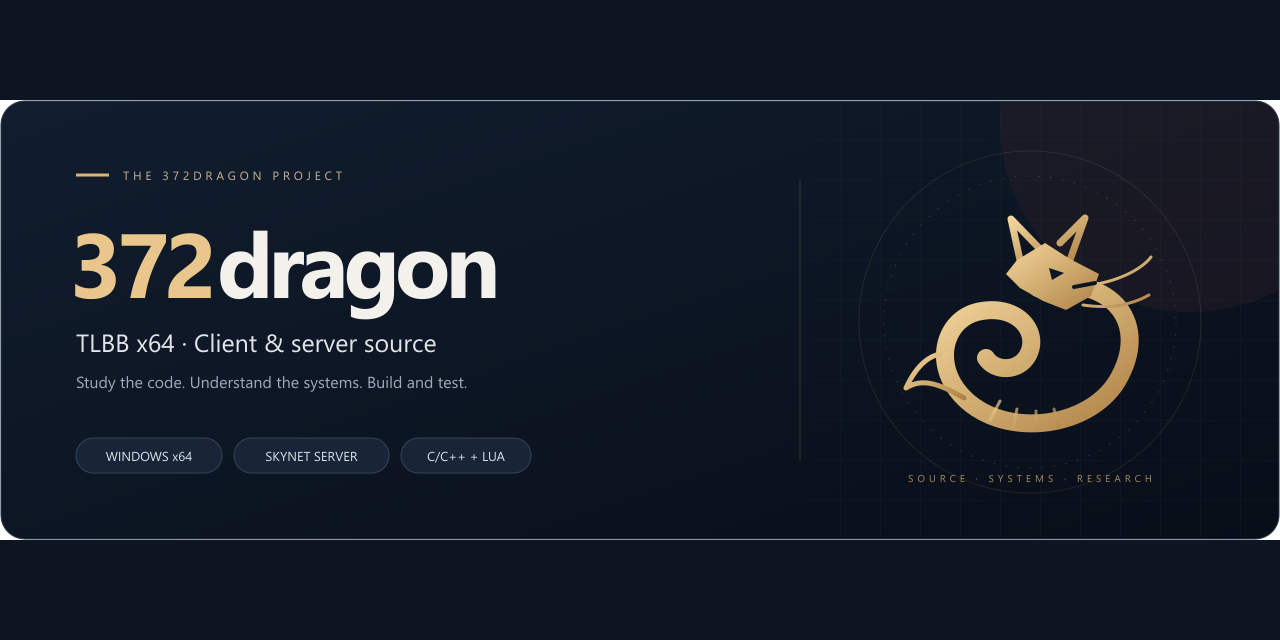
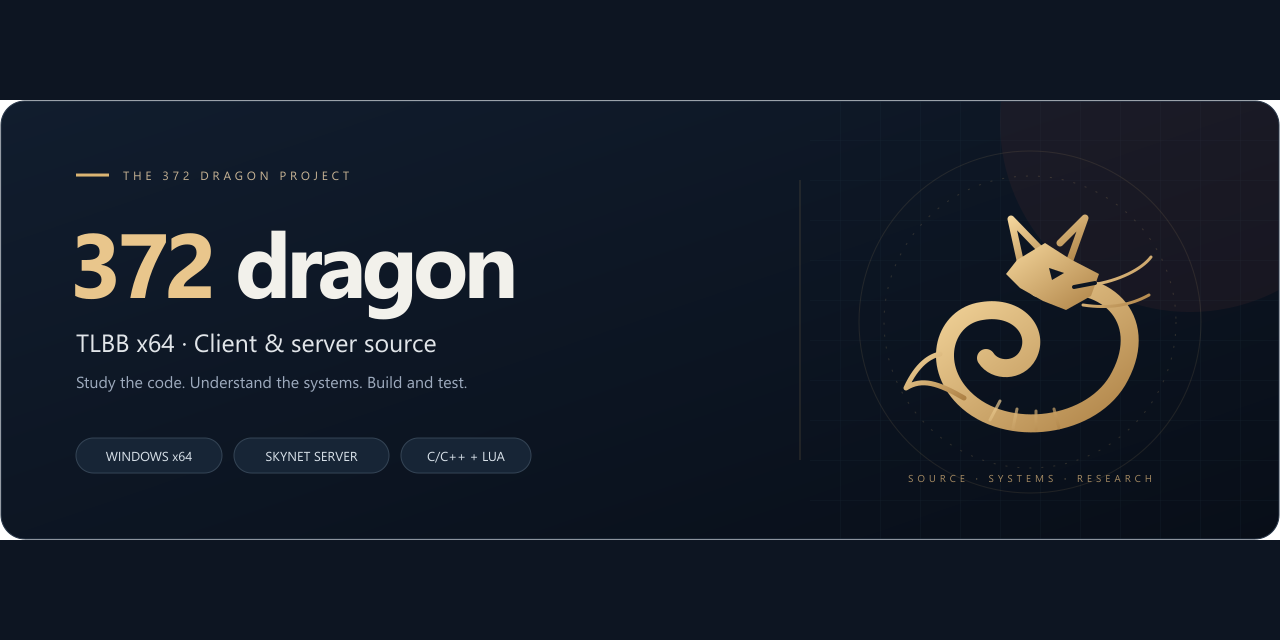
Use 372 dragon branding in public documentation

Changed region(s): [[0.1562, 0.3438, 0.4062, 0.5], [0.1562, 0.25, 0.2812, 0.2812]]

diff --git a/README.md b/README.md
@@ -1,8 +1,8 @@
 <p align="center">
-  <img src="Docs/assets/372dragon-banner.svg" alt="372dragon — TLBB x64 client, server and development tools" width="100%">
+  <img src="Docs/assets/372dragon-banner.svg" alt="372 dragon — TLBB x64 client, server and development tools" width="100%">
 </p>
 
-<h1 align="center">372dragon</h1>
+<h1 align="center">372 dragon</h1>
 
 <p align="center">
   <strong>Mã nguồn client TLBB x64, server Skynet/Lua và công cụ phát triển.</strong><br>
@@ -20,7 +20,7 @@
 
 ---
 
-**372dragon** là tên công bố của **CY-Source**: dự án phát triển client Windows x64
+**372 dragon** là dự án phát triển client Windows x64
 từ nền mã TLBB 0.85, dùng Fairy/OGRE, Direct3D 9, CEGUI và Lua, kết nối với server
 Skynet/Lua trên Linux hoặc WSL2. Repository tập hợp source client/server, công cụ,
 kiểm thử và tài liệu kỹ thuật để nghiên cứu, tiếp tục phát triển và kiểm tra hành vi.
@@ -33,7 +33,7 @@ kiểm thử và tài liệu kỹ thuật để nghiên cứu, tiếp tục phá
 
 | Bạn muốn làm gì? | Đọc ở đâu? |
 |---|---|
-| Hiểu dự án và lấy đúng các thành phần | [Bắt đầu với 372dragon](Docs/guide/getting-started.md) |
+| Hiểu dự án và lấy đúng các thành phần | [Bắt đầu với 372 dragon](Docs/guide/getting-started.md) |
 | Tải data, kiểm hash và giải nén | [Data kiểm thử trên Google Drive](DATA_DOWNLOAD.md) |
 | Dựng client Windows x64 | [Toolchain, SDK và lệnh build](Docs/guide/build-client.md) |
 | Chuẩn bị server Linux/WSL2 | [Source, cấu hình riêng và dịch vụ](Docs/guide/server-setup.md) |
@@ -50,10 +50,6 @@ kiểm thử và tài liệu kỹ thuật để nghiên cứu, tiếp tục phá
 | **Công cụ** | Build, xử lý tài nguyên, giao thức, staging và kiểm tra |
 | **Tư liệu kỹ thuật** | Registry, đặc tả, ghi chép kiểm toán và bằng chứng theo mốc phát triển |
 | **Data kiểm thử** | Tài nguyên client, overlay và bảng/scene server; tải riêng để giữ repository nhẹ |
-
-Các tên `CY-Source`, `CYSource`, `CYS_*`, `cys_*` và `CanonicalCY` trong code vẫn là
-định danh kỹ thuật hoặc lịch sử của cùng dự án. Tên công bố **372dragon** không yêu
-cầu đổi các target build, đường dẫn data hay tên file tài nguyên.
 
 ## Tải source và data
 
@@ -88,8 +84,8 @@ cd C:\Dev\372dragon
 ├── Tests/            Kiểm thử, validator và probe
 ├── Registry/         ID, giao thức, ABI và dấu vết nhập nguồn
 ├── Docs/guide/       Hướng dẫn dành cho người dùng repository
-├── Docs/assets/      Banner và nhận diện 372dragon
-├── Docs/             Tài liệu kỹ thuật và lịch sử CY-Source
+├── Docs/assets/      Banner và nhận diện 372 dragon
+├── Docs/             Tài liệu kỹ thuật và lịch sử phát triển
 ├── Publication/      Manifest, kiểm tra data và chuẩn bị cấu hình
 ├── LICENSES/         Văn bản giấy phép gốc
 └── .github/          Mẫu issue và pull request
@@ -137,7 +133,7 @@ bước tái hiện, hành vi mong đợi cùng log đã loại thông tin riên
 <details>
 <summary><strong>English overview</strong></summary>
 
-372dragon is the public project name for CY-Source, a TLBB 0.85-derived Windows x64
+372 dragon is a TLBB 0.85-derived Windows x64
 client with a separate Skynet/Lua server. The client uses Fairy/OGRE, Direct3D 9,
 CEGUI and Lua. This repository contains a source snapshot, development tools,
 tests and technical documentation. Test resources are distributed separately.
@@ -145,7 +141,6 @@ tests and technical documentation. Test resources are distributed separately.
 A complete clean-machine build and installation has not yet been validated.
 Original project contributions use PolyForm Noncommercial 1.0.0 only within the
 documented scope; inherited code, third-party libraries and test data retain their
-respective rights and terms. Technical identifiers and historical documents still
-use CY-Source/CYS names. The main documentation is currently in Vietnamese.
+respective rights and terms. The main documentation is currently in Vietnamese.
 
 </details>

diff --git a/DATA_DOWNLOAD.md b/DATA_DOWNLOAD.md
@@ -1,9 +1,10 @@
-# 372dragon — tải data kiểm thử
+# 372 dragon — tải data kiểm thử
 
 [← Trang dự án](README.md) · [Hướng dẫn bắt đầu](Docs/guide/getting-started.md)
 
-372dragon là tên công bố của CY-Source. Tên ZIP và thông báo `DATA-NOTICE.txt` giữ
-nguyên để khớp gói đã chia sẻ; đổi tên dự án không thay nội dung hay checksum data.
+Tên ZIP và thông báo `DATA-NOTICE.txt` giữ nguyên để khớp gói đã chia sẻ.
+Bản thông báo trong repository dùng tên hiển thị **372 dragon**; nội dung điều khoản,
+file data và checksum gói tải về không thay đổi.
 
 **Google Drive:** [Tải cy-test-data-2026-10-15.zip](https://drive.google.com/file/d/1FG-BSvarnmCeezwr4PqqC0zHMf7syia4/view?usp=sharing).
 Liên kết do chủ dự án cung cấp. Đã mở trang file không đăng nhập và xác nhận đúng
@@ -27,11 +28,11 @@ Trong ZIP có `DATA-FILES.json` chứa hash từng file và `DATA-NOTICE.txt`.
 ## Mục đích kiểm thử và giới hạn trách nhiệm
 
 Bộ data chỉ được dự án giới thiệu để đối chiếu và kiểm tra mã nguồn gốc, bản build
-từ source và các thay đổi của CY-Source có hoạt động đúng hay không; phục vụ tái hiện
+từ source và các thay đổi của 372 dragon có hoạt động đúng hay không; phục vụ tái hiện
 lỗi, kiểm tra việc tải tài nguyên và khả năng tương thích client/server.
 
-Đọc [DATA_NOTICE.md](DATA_NOTICE.md) trước khi sử dụng. Thông báo này được đính kèm
-nguyên văn trong `DATA-NOTICE.txt` bên trong ZIP: dữ liệu được cung cấp theo hiện trạng;
+Đọc [DATA_NOTICE.md](DATA_NOTICE.md) trước khi sử dụng. `DATA-NOTICE.txt` bên trong ZIP
+giữ bản thông báo tại thời điểm đóng gói, với cùng điều khoản: dữ liệu được cung cấp theo hiện trạng;
 miễn trừ bảo đảm, bao gồm bảo đảm không xâm phạm quyền bên thứ ba, và giới hạn trách
 nhiệm trong phạm vi pháp luật cho phép. Người sử dụng phải xác định quyền và tuân thủ
 điều khoản áp dụng đối với hành vi của mình. Mục đích kiểm thử và thông báo miễn trừ
@@ -40,7 +41,7 @@ không tự tạo quyền phân phối hoặc loại bỏ trách nhiệm pháp l
 ## Thông báo bản quyền
 
 > Dữ liệu kiểm thử được tổng hợp từ nhiều nguồn trên internet. Bản quyền và các quyền
-> liên quan thuộc tác giả hoặc chủ sở hữu tương ứng. CY-Source không tuyên bố sở hữu
+> liên quan thuộc tác giả hoặc chủ sở hữu tương ứng. 372 dragon không tuyên bố sở hữu
 > và không cấp lại giấy phép cho dữ liệu này. Giấy phép phần mềm của dự án không áp dụng
 > cho gói dữ liệu. Việc sử dụng và phân phối lại phải tuân thủ điều khoản của nguồn và
 > chủ sở hữu tương ứng.

diff --git a/DATA_NOTICE.md b/DATA_NOTICE.md
@@ -2,7 +2,7 @@
 
 ## 1. Mục đích của bộ dữ liệu
 
-CY-Source tập hợp và dẫn bộ dữ liệu này chỉ nhằm phục vụ nghiên cứu, đối chiếu và
+372 dragon tập hợp và dẫn bộ dữ liệu này chỉ nhằm phục vụ nghiên cứu, đối chiếu và
 kiểm thử kỹ thuật: kiểm tra mã nguồn gốc, bản build từ source và các thay đổi của
 dự án có đọc, tải, xử lý tài nguyên và thực hiện chức năng đúng hay không; tái hiện
 lỗi và đánh giá khả năng tương thích giữa client, server và định dạng dữ liệu.
@@ -16,9 +16,9 @@ sao chép, sử dụng, sửa đổi, phân phối hoặc vận hành dữ liệ
 ## 2. Quyền tác giả và phạm vi giấy phép
 
 Dữ liệu được tổng hợp từ nhiều nguồn. Quyền tác giả, quyền liên quan, nhãn hiệu và
-các quyền sở hữu trí tuệ khác thuộc tác giả hoặc chủ sở hữu tương ứng. CY-Source
+các quyền sở hữu trí tuệ khác thuộc tác giả hoặc chủ sở hữu tương ứng. 372 dragon
 không tuyên bố sở hữu, không chuyển nhượng và không cấp lại giấy phép cho dữ liệu.
-Giấy phép phần mềm của CY-Source không áp dụng cho bộ dữ liệu này. Việc một tài nguyên
+Giấy phép phần mềm của 372 dragon không áp dụng cho bộ dữ liệu này. Việc một tài nguyên
 xuất hiện trong bộ dữ liệu không hàm ý tác giả hoặc chủ sở hữu bảo trợ hay chấp thuận
 toàn bộ dự án.
 
@@ -33,7 +33,7 @@ sửa đổi, phân phối lại hoặc khai thác dữ liệu đều hợp phá
 ## 4. Giới hạn trách nhiệm và nghĩa vụ của người sử dụng
 
 Trong phạm vi pháp luật áp dụng cho phép, tác giả đóng góp, người duy trì và bên
-cung cấp của CY-Source không chịu trách nhiệm đối với thiệt hại, tổn thất hoặc yêu
+cung cấp của 372 dragon không chịu trách nhiệm đối với thiệt hại, tổn thất hoặc yêu
 cầu bồi thường phát sinh từ việc sử dụng, không thể sử dụng, sửa đổi, phân phối lại
 hoặc khai thác bộ dữ liệu, bao gồm các tranh chấp về quyền tác giả, quyền sở hữu trí
 tuệ và các rủi ro pháp lý liên quan đến hành vi sử dụng của người nhận.

diff --git a/PUBLICATION.md b/PUBLICATION.md
@@ -1,6 +1,6 @@
-# Phương án công bố 372dragon — 15/10/2026
+# Phương án công bố 372 dragon — 15/10/2026
 
-Tên công bố của CY-Source là **372dragon**. Xem [README.md](README.md),
+**372 dragon**: source client/server và tài liệu dự án. Xem [README.md](README.md),
 [hướng dẫn](Docs/guide/README.md) và [thiết lập GitHub](Publication/GITHUB-SETUP.md).
 
 Quyết định mới nhất: GitHub cho source và tài liệu; một file data ZIP64 riêng ở Google Drive;
@@ -43,7 +43,7 @@ không xóa bản gốc. Nếu muốn chia sẻ thêm, từng nhóm cần kiểm
 
 Đã làm: kiểm kê client/server thật; xuất source riêng; thay mật khẩu cấu hình bằng template;
 chuẩn bị license scope, bảng nguồn data và tài liệu DLL; ghi nhận liên kết Drive do chủ dự án cung cấp và kiểm tra trang file không đăng nhập.
-Source snapshot được công bố tại [372dragon trên GitHub](https://github.com/ts4m97/372dragon), nhánh `main`.
+Source snapshot được công bố tại [372 dragon trên GitHub](https://github.com/ts4m97/372dragon), nhánh `main`.
 
 Chưa làm: xác minh quyền phân phối lại của từng nguồn data; hoàn tất phạm vi
 đóng góp CY lịch sử; bổ sung mọi notice phụ thuộc; nghiệm thu cài mới và clean build trên máy khác.

diff --git a/CHANGELOG.md b/CHANGELOG.md
@@ -1,11 +1,11 @@
-# Thay đổi bản công bố 372dragon
+# Thay đổi bản công bố 372 dragon
 
 Nhật ký này không tự đại diện cho release/tag đã tạo trên GitHub hay chứng nhận clean build.
 
 ## 2026-10-15 — Công bố source snapshot
 
 - Công bố source tại [ts4m97/372dragon](https://github.com/ts4m97/372dragon), nhánh `main`.
-- Chọn tên công bố **372dragon**, giữ CY-Source/CYS trong code và lịch sử.
+- Thống nhất tên hiển thị **372 dragon** trong README, banner và tài liệu giới thiệu.
 - Xuất riêng source client/server, công cụ, kiểm thử và tài liệu.
 - Chuẩn bị cấu hình mẫu, phạm vi license và notice bên thứ ba.
 - Tách data thành ZIP64 ngoài Git, thêm checksum và thông báo data.

diff --git a/Publication/INSTALL-NOTES.md b/Publication/INSTALL-NOTES.md
@@ -1,8 +1,8 @@
 # Cài mới: những gì bộ chuẩn bị cung cấp
 
-**372dragon:** bắt đầu từ [hướng dẫn cài đặt](../Docs/guide/getting-started.md),
+**372 dragon:** bắt đầu từ [hướng dẫn cài đặt](../Docs/guide/getting-started.md),
 [build client](../Docs/guide/build-client.md) và [server](../Docs/guide/server-setup.md).
-File này giữ các ghi chú kỹ thuật của bản xuất CY-Source.
+File này giữ các ghi chú kỹ thuật của bản xuất source.
 
 Đây là hướng dẫn về bố cục và các bước cần nghiệm thu, chưa phải tuyên bố cài đặt tự động đã đạt.
 

diff --git a/Docs/guide/repository-map.md b/Docs/guide/repository-map.md
@@ -24,7 +24,7 @@
 1. **Hướng dẫn bản công bố:** [Docs/guide](README.md), README, DATA_DOWNLOAD,
    CONTRIBUTING và các file root giải thích cách tiếp cận repository.
 2. **Tư liệu lịch sử:** tài liệu đánh số trong `Docs/`, spec và evidence giữ ngày
-   tháng, giả định và đường dẫn của CY-Source lúc viết.
+   tháng, giả định và đường dẫn của dự án lúc viết.
 3. **Metadata đóng gói:** manifest data, phạm vi license và nguồn data ở `Publication/`.
    Chúng không thay source SDK hay chứng nhận runtime.
 

diff --git a/Docs/guide/README.md b/Docs/guide/README.md
@@ -1,9 +1,9 @@
-# Tài liệu 372dragon
+# Tài liệu 372 dragon
 
 [← Trang dự án](../../README.md)
 
-Đây là bộ hướng dẫn dành cho bản công bố 372dragon. Các tài liệu khác trong `Docs/`
-ghi quá trình phát triển CY-Source; đọc ngày tháng và phạm vi trước khi áp dụng.
+Đây là bộ hướng dẫn dành cho bản công bố 372 dragon. Các tài liệu khác trong `Docs/`
+ghi quá trình phát triển dự án; đọc ngày tháng và phạm vi trước khi áp dụng.
 
 | Thứ tự | Hướng dẫn | Kết quả cần có |
 |---:|---|---|

diff --git a/Docs/guide/getting-started.md b/Docs/guide/getting-started.md
@@ -1,8 +1,8 @@
-# Bắt đầu với 372dragon
+# Bắt đầu với 372 dragon
 
 [← Tài liệu](README.md) · [Build client →](build-client.md)
 
-372dragon cung cấp source để nghiên cứu và phát triển client TLBB x64 cùng server
+372 dragon cung cấp source để nghiên cứu và phát triển client TLBB x64 cùng server
 Skynet/Lua. Quy trình cài trọn bộ trên máy mới chưa được nghiệm thu. Bạn có thể đọc
 code ngay mà không tải 12,39 GB data.
 

diff --git a/README_vi.md b/README_vi.md
@@ -1,4 +1,4 @@
-# CY-Source — Thiên Long Bát Bộ 64-bit dựng từ mã nguồn
+# 372 dragon — Thiên Long Bát Bộ 64-bit dựng từ mã nguồn
 
 Dự án dựng một client TLBB x64 từ mã nguồn 0.85 (trong `Reference`), nâng lên ngang dòng engine Fairy hiện đại của `client_GL` và CY 3.71, rồi dùng một kho dữ liệu hợp nhất từ CY, HJ, GL và 085. Client nói giao thức của server skynet đang chạy trong WSL `TLBB`.
 

diff --git a/LICENSING.md b/LICENSING.md
@@ -1,6 +1,6 @@
-# Giấy phép 372dragon — phạm vi đóng góp của dự án
+# Giấy phép 372 dragon — phạm vi đóng góp của dự án
 
-372dragon là tên công bố của CY-Source. Tên mới không thay quyền tác giả hoặc giấy phép hiện hữu.
+Giấy phép của 372 dragon áp dụng theo từng thành phần, giữ nguyên quyền tác giả và giấy phép hiện hữu.
 
 Quyết định ngày 15/10/2026:
 
